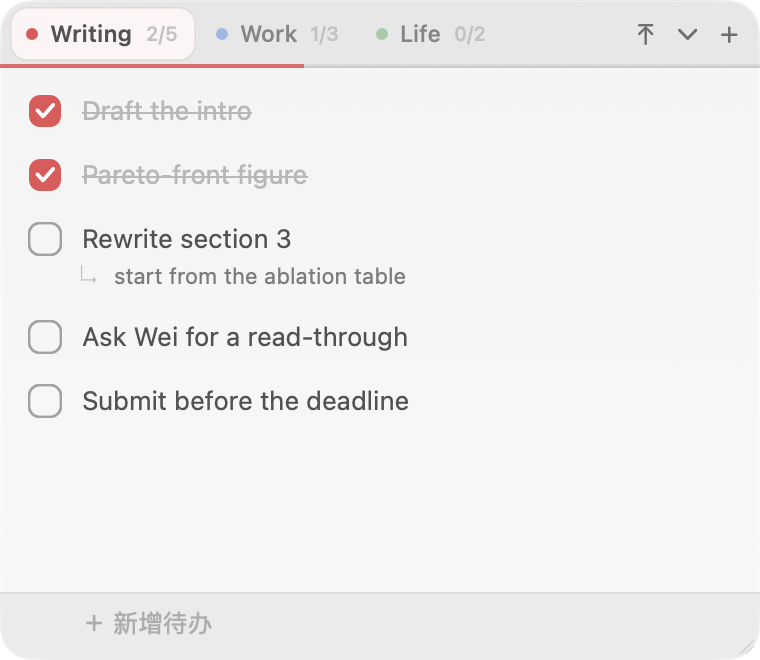
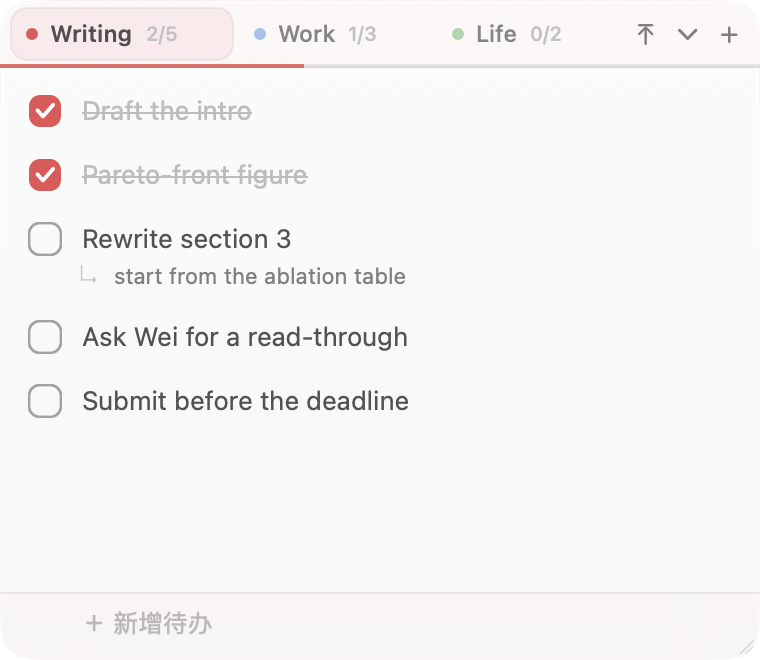
Give the card depth, pull the dark themes apart, colour the chrome
The six themes read as three. Four things were behind that.

The gradient across the card did not exist. `paper` ran from white to
0.992 and `sand` from 0.996 to 0.988 — two steps out of 255, spread over
250 points, well under anything an eye resolves. The comment claiming it
kept a flat panel from looking like a rectangle of paint was aspiration.
It is now about six steps on the light themes and eleven on the dark
ones, and it is drawn at `angle: 90` rather than -90: `CardView` is
flipped, and in a flipped context the angle points the other way down
the screen, so for as long as this has been here the light end has been
at the bottom. Two steps is too few to notice upside down.

Added a highlight just inside the rim along the top edge — the line where
a real material would catch the light on its own bevel, and more of what
makes a panel read as raised than the gradient is. Filled as a ring with
a fading gradient rather than stroked and clipped to the top, because a
clipped stroke has to stop somewhere and the stop is visible. I left the
rim itself one colour top to bottom: a lighter top rim sits directly
against this highlight and the two cancel rather than compound.

`graphite` and `ink` were the same theme — three percent apart in
luminance and a trace of hue. `graphite` is now a genuinely neutral
mid-dark panel and `ink` a near-black with a blue cast, far enough apart
to be a choice.

A note's colour showed up in three small places: a six-point dot, the
[…]

Changed region(s): [[0.2724, 0.0303, 0.7566, 0.0606]]

diff --git a/Sources/Models.swift b/Sources/Models.swift
@@ -18,9 +18,10 @@ enum NoteColor: String, Codable, CaseIterable {
         }
     }
 
-    /// Accent used for the color dot, the checkbox fill and the progress bar.
-    /// It is the *only* place a note's colour shows: the window itself stays
-    /// neutral so switching tabs doesn't repaint everything.
+    /// Accent used for the colour dot, the checkbox fill, the progress bar, and
+    /// as a wash over the chrome — the tab strip and the footer are tinted a
+    /// tenth of the way towards it. The card itself is left neutral: it is the
+    /// ground the text sits on, and text wants a neutral ground.
     var accent: NSColor {
         switch self {
         case .red: return NSColor(srgbRed: 0.90, green: 0.29, blue: 0.31, alpha: 1)
@@ -48,7 +49,10 @@ enum NoteColor: String, Codable, CaseIterable {
 /// The two light and two dark variants are not padding: a warm paper tint and a
 /// cool near-white read completely differently against a wallpaper, and which
 /// one looks right depends on the desktop behind it, not on taste in the
-/// abstract. Same for neutral vs blue-black on the dark side.
+/// abstract. Same on the dark side — `graphite` is a genuinely neutral mid-dark
+/// panel and `ink` is a near-black with a blue cast, which is far enough apart
+/// that the menu offers four dark-and-light choices rather than two plus two
+/// near-duplicates.
 enum Theme: String, Codable, CaseIterable {
     case auto, paper, sand, graphite, ink, glass
 
@@ -93,19 +97,47 @@ enum Theme: String, Codable, CaseIterable {
     }
 }
 
+/// Blends `base` a fraction of the way towards `accent` while keeping its own
+/// alpha. Preserving alpha is the point: the glass palettes are built entirely
+/// out of translucent washes, and `blended(withFraction:of:)` on its own would
+/// quietly drag them towards opaque.
+func mixed(_ base: NSColor, _ accent: NSColor, _ f: CGFloat) -> NSColor {
+    (base.blended(withFraction: f, of: accent) ?? base)
+        .withAlphaComponent(base.alphaComponent)
+}
+
 /// Every surface colour in the window, resolved from the active theme once and
 /// handed to the views. Keeping it in one place is what stopped the tab strip,
 /// the card and the rows from each inventing their own greys.
 struct Palette {
-    var card: NSColor            // the note's surface
+    var card: NSColor            // the note's surface, at the bottom of the gradient
     var cardTop: NSColor         // top of the surface gradient
-    var header: NSColor          // the tab strip, drawn a shade off the card
+    var header: NSColor          // the tab strip and the footer, a shade off the card
     var rim: NSColor             // outer hairline around the window
+    var innerLight: NSColor      // highlight just inside the rim along the top edge
     var hairline: NSColor        // internal dividers
     var activeTab: NSColor       // the selected tab's chip
     var hover: NSColor           // row and tab hover wash
     var track: NSColor           // progress-bar groove
     var dark: Bool
+
+    /// A copy with the chrome pulled towards a note's colour.
+    ///
+    /// Only the band behind the tabs and the footer move. Tinting the card as
+    /// well would be the sticky-note register, and it is the wrong one here: a
+    /// list you read for minutes at a time wants black on white, not black on
+    /// pale purple. This way switching to a purple note visibly changes the
+    /// window without changing the surface any text is on.
+    func tinted(by accent: NSColor) -> Palette {
+        var p = self
+        // Less of it on the dark themes. The same fraction does not buy the same
+        // amount of colour at both ends: mixed into a near-black band an accent
+        // is a large part of what little luminance is there, so a tenth of the
+        // way lands at around 0.4 saturation where on a near-white band it lands
+        // at 0.06. Matching the numbers would make the dark side garish.
+        p.header = mixed(header, accent, dark ? 0.07 : 0.10)
+        return p
+    }
 
     static func of(_ theme: Theme, systemDark: Bool) -> Palette {
         switch theme.resolved(dark: systemDark) {
@@ -114,71 +146,85 @@ struct Palette {
             // enough in luminance that black text on it is easier on the eye
             // than on pure white.
             return Palette(
-                card: NSColor(srgbRed: 0.988, green: 0.973, blue: 0.937, alpha: 1),
-                cardTop: NSColor(srgbRed: 0.996, green: 0.988, blue: 0.961, alpha: 1),
-                header: NSColor(srgbRed: 0.976, green: 0.953, blue: 0.902, alpha: 1),
-                rim: NSColor(srgbRed: 0.62, green: 0.55, blue: 0.42, alpha: 0.28),
+                card: NSColor(srgbRed: 0.973, green: 0.955, blue: 0.909, alpha: 1),
+                cardTop: NSColor(srgbRed: 0.999, green: 0.992, blue: 0.969, alpha: 1),
+                header: NSColor(srgbRed: 0.953, green: 0.926, blue: 0.859, alpha: 1),
+                rim: NSColor(srgbRed: 0.62, green: 0.55, blue: 0.42, alpha: 0.32),
+                innerLight: NSColor(white: 1, alpha: 0.85),
                 hairline: NSColor(srgbRed: 0.45, green: 0.38, blue: 0.24, alpha: 0.12),
                 activeTab: NSColor(white: 1, alpha: 1),
                 hover: NSColor(srgbRed: 0.45, green: 0.38, blue: 0.24, alpha: 0.07),
-                track: NSColor(srgbRed: 0.45, green: 0.38, blue: 0.24, alpha: 0.12),
+                track: NSColor(srgbRed: 0.45, green: 0.38, blue: 0.24, alpha: 0.14),
                 dark: false)
         case .paper:
             // Near-white but not #fff, with a faintly cool cast — this is the
             // Things/Reminders register rather than the sticky-note one.
             return Palette(
-                card: NSColor(srgbRed: 0.992, green: 0.992, blue: 0.996, alpha: 1),
+                card: NSColor(srgbRed: 0.974, green: 0.976, blue: 0.982, alpha: 1),
                 cardTop: NSColor(white: 1, alpha: 1),
-                header: NSColor(srgbRed: 0.965, green: 0.969, blue: 0.976, alpha: 1),
-                rim: NSColor(white: 0, alpha: 0.15),
+                header: NSColor(srgbRed: 0.941, green: 0.945, blue: 0.957, alpha: 1),
+                rim: NSColor(white: 0, alpha: 0.17),
+                innerLight: NSColor(white: 1, alpha: 0.9),
                 hairline: NSColor(white: 0, alpha: 0.08),
                 activeTab: NSColor(white: 1, alpha: 1),
                 hover: NSColor(white: 0, alpha: 0.045),
-                track: NSColor(white: 0, alpha: 0.09),
+                track: NSColor(white: 0, alpha: 0.11),
                 dark: false)
         case .ink:
-            // Blue-black. A dark panel with a hue reads as designed; a pure
-            // neutral one reads as "the lights are off".
+            // Near-black, blue. A dark panel with a hue reads as designed; a
+            // pure neutral one reads as "the lights are off". Pushed well below
+            // `graphite` so the two are a choice rather than a pair.
             return Palette(
-                card: NSColor(srgbRed: 0.106, green: 0.118, blue: 0.149, alpha: 1),
-                cardTop: NSColor(srgbRed: 0.129, green: 0.145, blue: 0.184, alpha: 1),
-                header: NSColor(srgbRed: 0.086, green: 0.098, blue: 0.125, alpha: 1),
-                rim: NSColor(white: 1, alpha: 0.14),
+                card: NSColor(srgbRed: 0.063, green: 0.073, blue: 0.106, alpha: 1),
+                cardTop: NSColor(srgbRed: 0.098, green: 0.114, blue: 0.161, alpha: 1),
+                header: NSColor(srgbRed: 0.043, green: 0.051, blue: 0.078, alpha: 1),
+                rim: NSColor(white: 1, alpha: 0.15),
+                innerLight: NSColor(white: 1, alpha: 0.11),
                 hairline: NSColor(white: 1, alpha: 0.08),
-                activeTab: NSColor(srgbRed: 0.216, green: 0.243, blue: 0.310, alpha: 1),
+                activeTab: NSColor(srgbRed: 0.196, green: 0.224, blue: 0.302, alpha: 1),
                 hover: NSColor(white: 1, alpha: 0.055),
                 track: NSColor(white: 1, alpha: 0.10),
                 dark: true)
         case .graphite:
+            // The neutral dark: a mid-dark panel with no cast at all, for a
+            // desktop busy enough that a tinted one would fight it.
             return Palette(
-                card: NSColor(srgbRed: 0.137, green: 0.141, blue: 0.153, alpha: 1),
-                cardTop: NSColor(srgbRed: 0.169, green: 0.173, blue: 0.188, alpha: 1),
-                header: NSColor(srgbRed: 0.110, green: 0.114, blue: 0.125, alpha: 1),
-                rim: NSColor(white: 1, alpha: 0.16),
+                card: NSColor(srgbRed: 0.169, green: 0.167, blue: 0.163, alpha: 1),
+                cardTop: NSColor(srgbRed: 0.216, green: 0.213, blue: 0.208, alpha: 1),
+                header: NSColor(srgbRed: 0.129, green: 0.127, blue: 0.124, alpha: 1),
+                rim: NSColor(white: 1, alpha: 0.17),
+                innerLight: NSColor(white: 1, alpha: 0.10),
                 hairline: NSColor(white: 1, alpha: 0.09),
-                activeTab: NSColor(white: 1, alpha: 0.15),
+                activeTab: NSColor(white: 1, alpha: 0.16),
                 hover: NSColor(white: 1, alpha: 0.06),
                 track: NSColor(white: 1, alpha: 0.11),
                 dark: true)
         default:   // .glass — painted over live vibrancy, so everything is alpha
             return systemDark
-                ? Palette(card: NSColor(white: 0.13, alpha: 0.70),
-                          cardTop: NSColor(white: 0.19, alpha: 0.66),
-                          header: NSColor(white: 0.08, alpha: 0.35),
+                ? Palette(card: NSColor(white: 0.11, alpha: 0.72),
+                          cardTop: NSColor(white: 0.20, alpha: 0.68),
+                          header: NSColor(white: 0.04, alpha: 0.40),
                           rim: NSColor(white: 1, alpha: 0.15),
+                          innerLight: NSColor(white: 1, alpha: 0.16),
                           hairline: NSColor(white: 1, alpha: 0.09),
                           activeTab: NSColor(white: 1, alpha: 0.20),
                           hover: NSColor(white: 1, alpha: 0.06),
                           track: NSColor(white: 1, alpha: 0.11),
                           dark: true)
-                : Palette(card: NSColor(white: 1, alpha: 0.72),
-                          cardTop: NSColor(white: 1, alpha: 0.84),
-                          header: NSColor(white: 0.55, alpha: 0.13),
+                // The chrome band is a *white* wash rather than a grey one. A
+                // grey wash over live blur does not read as recessed the way an
+                // opaque one does — with the wallpaper still showing through it
+                // just reads as a smudge, which is what made this the one theme
+                // that looked dirty rather than frosted.
+                : Palette(card: NSColor(white: 1, alpha: 0.80),
+                          cardTop: NSColor(white: 1, alpha: 0.90),
+                          header: NSColor(white: 1, alpha: 0.30),
                           rim: NSColor(white: 1, alpha: 0.80),
+                          innerLight: NSColor(white: 1, alpha: 0.9),
                           hairline: NSColor(white: 0, alpha: 0.06),
                           activeTab: NSColor(white: 1, alpha: 0.95),
                           hover: NSColor(white: 0, alpha: 0.04),
-                          track: NSColor(white: 0, alpha: 0.07),
+                          track: NSColor(white: 0, alpha: 0.08),
                           dark: false)
         }
     }

diff --git a/Sources/BoardController.swift b/Sources/BoardController.swift
@@ -147,11 +147,35 @@ final class CardView: FlippedView {
         let r = M.corner - 0.5
         let path = NSBezierPath(roundedRect: bounds.insetBy(dx: 0.5, dy: 0.5),
                                 xRadius: r, yRadius: r)
-        // A hair of vertical gradient rather than a flat fill: the top reads as
-        // catching the light, which is what keeps a flat panel from looking like
-        // a grey rectangle.
+        // A vertical gradient rather than a flat fill: the top reads as
+        // catching the light, which is what keeps a flat panel from looking
+        // like a rectangle of paint.
+        //
+        // `angle: 90`, not -90, because this view is flipped — in a flipped
+        // context an angle points the opposite way down the screen, so the two
+        // ends of the gradient come out swapped.
         NSGradient(starting: palette.cardTop, ending: palette.card)?
-            .draw(in: path, angle: -90)
+            .draw(in: path, angle: 90)
+
+        // The highlight just inside the rim along the top edge. This, more than
+        // the gradient, is what makes a panel read as a raised surface: it is
+        // where a real material would catch the light on its own bevel.
+        //
+        // Filled as a ring rather than stroked and clipped, so the gradient can
+        // fade it out down the sides. A stroke clipped to the top would have to
+        // stop somewhere, and wherever it stopped would be a visible stub.
+        let ring = NSBezierPath()
+        ring.append(NSBezierPath(roundedRect: bounds.insetBy(dx: 1, dy: 1),
+                                 xRadius: r - 0.5, yRadius: r - 0.5))
+        ring.append(NSBezierPath(roundedRect: bounds.insetBy(dx: 2, dy: 2),
+                                 xRadius: r - 1.5, yRadius: r - 1.5))
+        ring.windingRule = .evenOdd
+        // Fading to the same colour at zero alpha rather than to `.clear`, so
+        // the interpolation cannot travel through some other hue on the way out.
+        NSGradient(colorsAndLocations: (palette.innerLight, 0),
+                   (palette.innerLight.withAlphaComponent(0), 0.28))?
+            .draw(in: ring, angle: 90)
+
         palette.rim.setStroke()
         path.lineWidth = 1
         path.stroke()
@@ -471,15 +495,15 @@ final class BoardController: NSObject, NSWindowDelegate {
         window.isOpaque = false
 
         card.palette = palette
-        // Same surface as the tab strip: chrome top and bottom, list in between.
-        footerBand.fill = palette.header
         footerBand.wash = palette.hover
         footerLine.color = palette.hairline
         bar.track = palette.track
-        tabBar.palette = palette
         rows.forEach { $0.palette = palette }
         // A theme switch can change whether the idle fade applies at all.
         updateAlpha()
+        // The tab strip and the footer are not set here: their colour depends on
+        // the selected note as well as on the theme, so `refreshChrome` owns
+        // them and this call is what pushes the new theme through to them.
         refreshChrome()
     }
 
@@ -503,6 +527,12 @@ final class BoardController: NSObject, NSWindowDelegate {
     /// Cheap refresh: tab titles and progress, row check state, colours.
     func refreshChrome() {
         let color = current?.color ?? .gray
+        // Chrome top and bottom, list in between — and both bands carry a wash
+        // of the selected note's colour, which is the only thing in the window
+        // that makes one note look different from another at a glance.
+        let chrome = palette.tinted(by: color.accent)
+        footerBand.fill = chrome.header
+        tabBar.palette = chrome
         tabBar.configure(notes: tabNotes, selected: current?.id,
                          collapsed: Store.shared.collapsed,
                          hideEdge: hideEdge, autoHide: Store.shared.autoHide)

diff --git a/Sources/NoteViews.swift b/Sources/NoteViews.swift
@@ -93,11 +93,12 @@ final class TabItemView: FlippedView {
     override func draw(_ dirtyRect: NSRect) {
         let pill = bounds.insetBy(dx: 1.5, dy: 4)
         if active {
-            // A raised neutral chip. The note's colour only tints it by a few
-            // percent — the dot and the progress bar are where colour lives.
+            // A raised chip carrying the note's colour. The tint has to be
+            // stronger than it looks like it should be: the chip is nearly
+            // white on the light themes, and a few percent of an accent mixed
+            // into white comes back out as white.
             let path = NSBezierPath(roundedRect: pill, xRadius: 8, yRadius: 8)
-            let base = palette.activeTab
-            (base.blended(withFraction: 0.06, of: color.accent) ?? base).setFill()
+            mixed(palette.activeTab, color.accent, 0.14).setFill()
             path.fill()
             // A hairline rim keeps the chip legible where the fill is close to
             // the card colour behind it.
